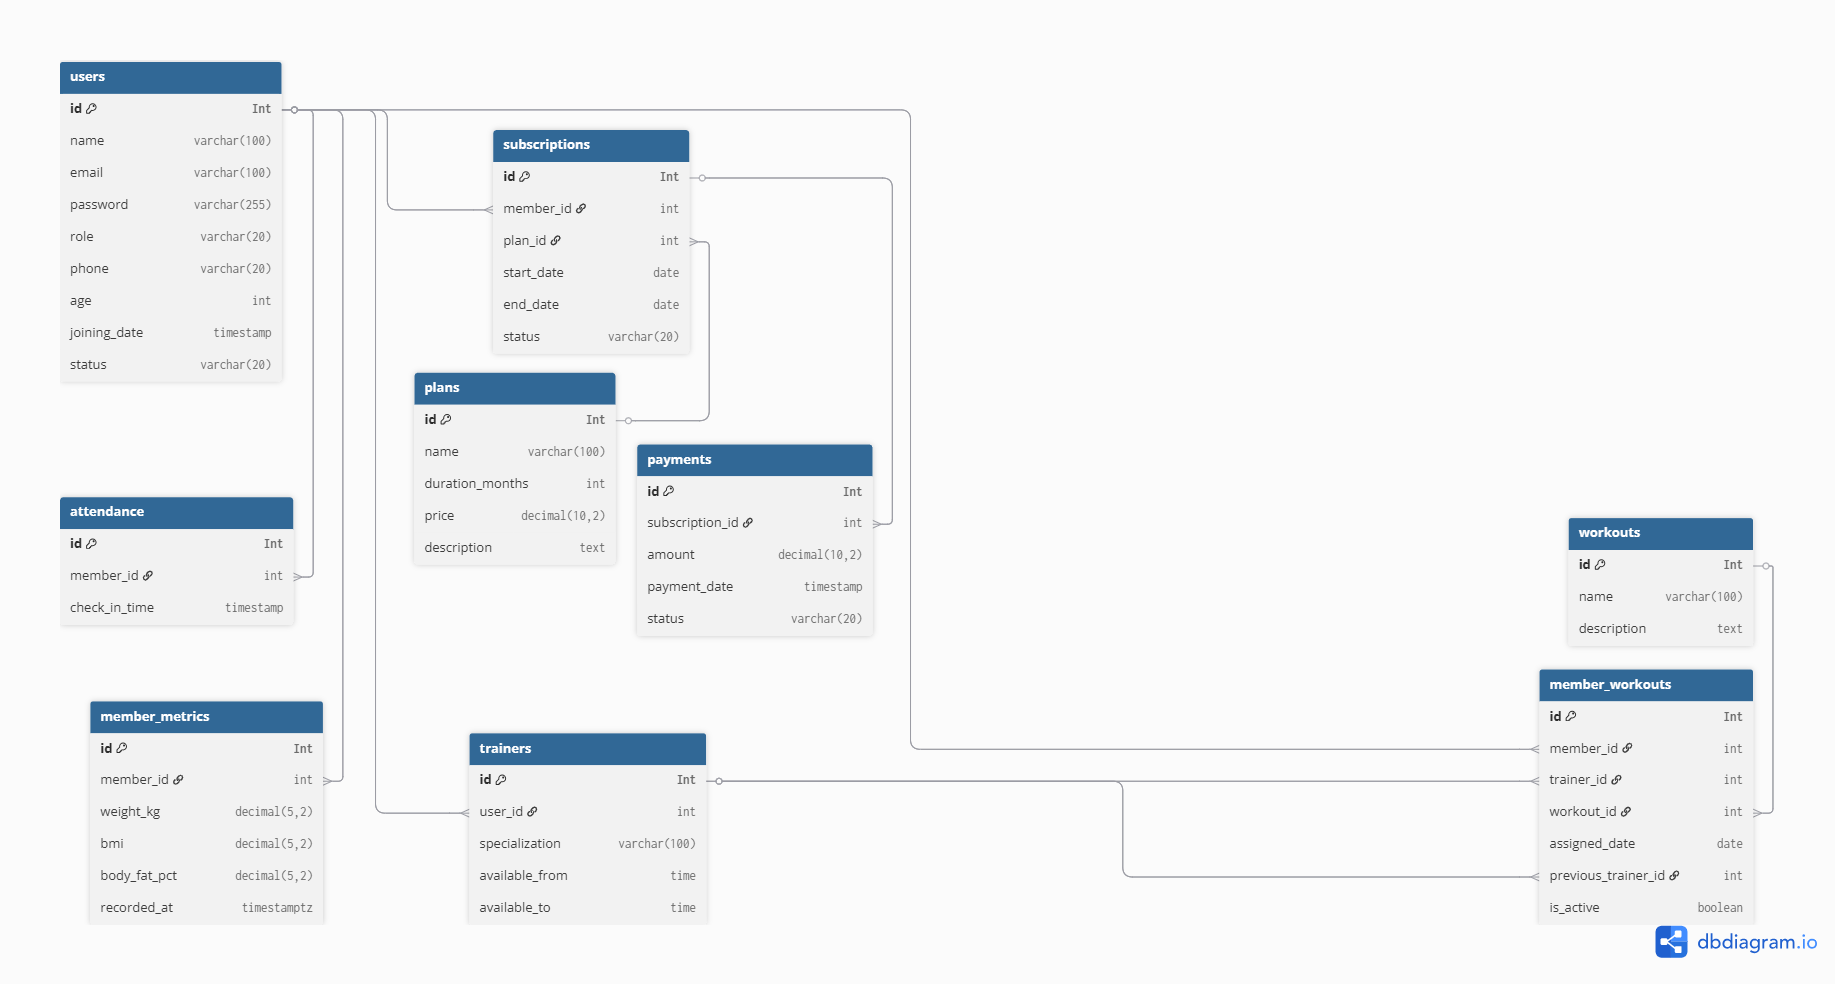
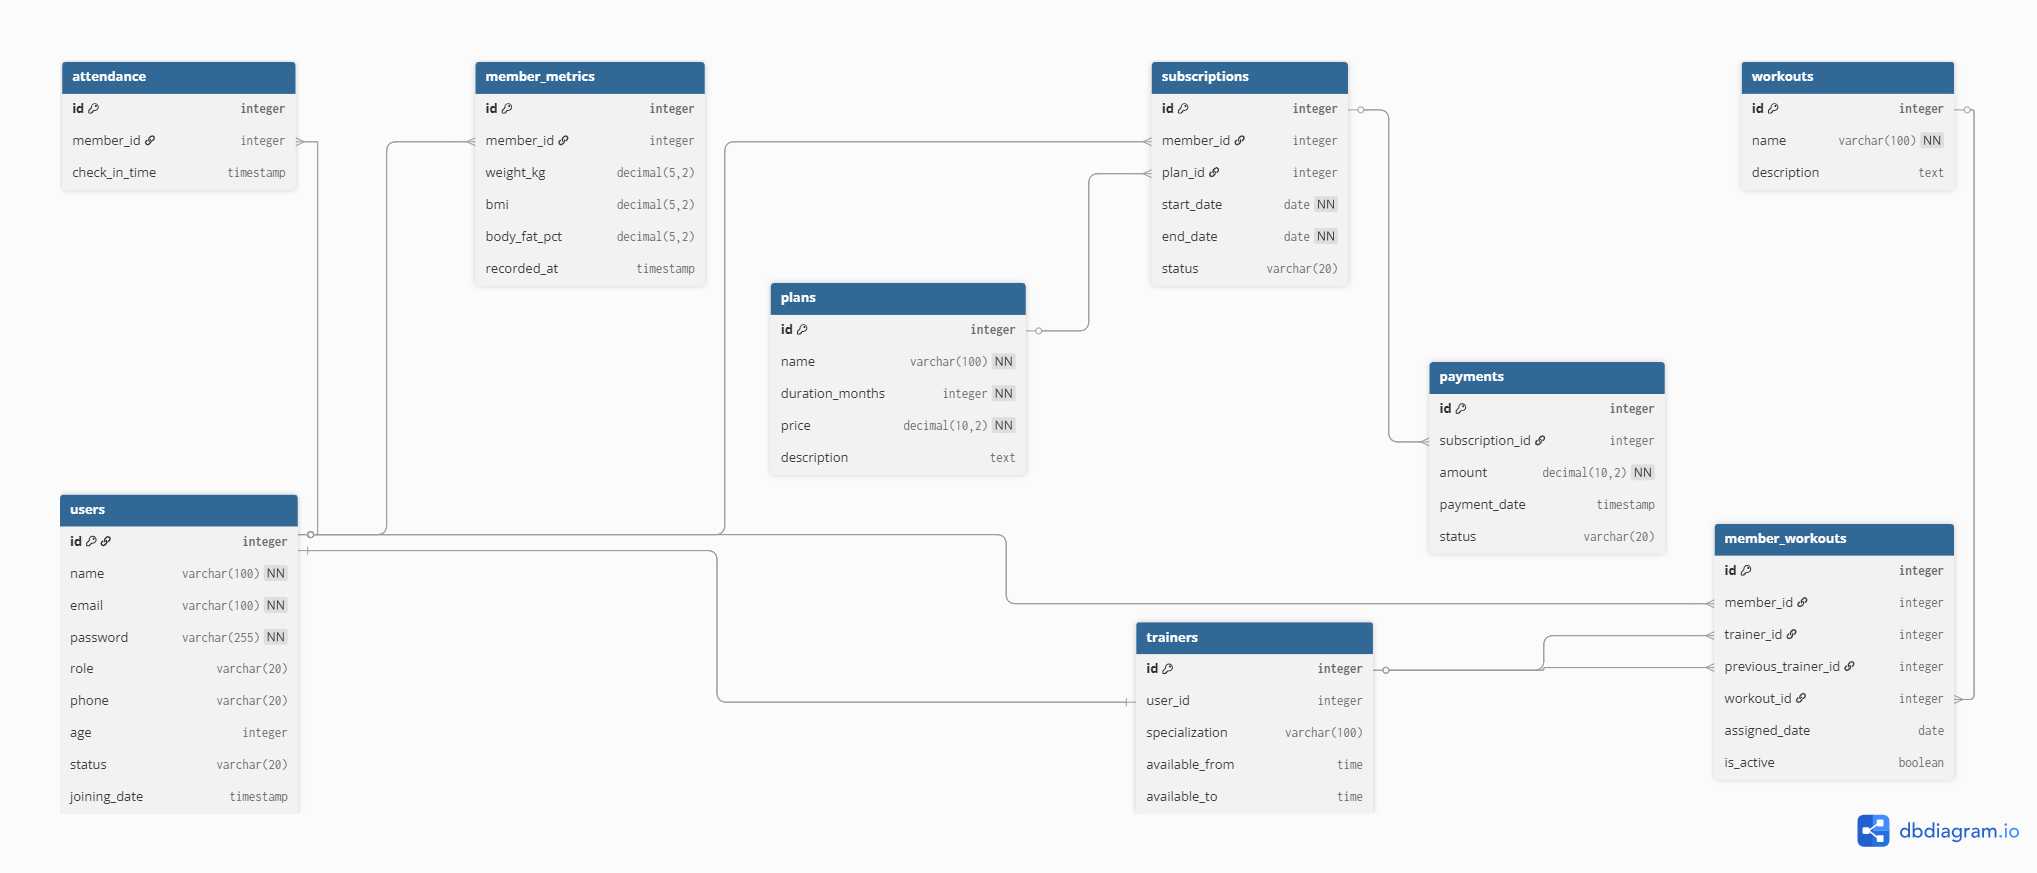
Database patches

diff --git a/services/adminService.js b/services/adminService.js
@@ -126,12 +126,6 @@ const assignMember = async (data) => {
 
     const t_id = trainer_id === '' ? null : trainer_id;
 
-    // 1. Ensure the user is marked as 'active' (in case they were 'removed')
-    await db.query(
-        "UPDATE users SET status = 'active' WHERE id = $1",
-        [member_id]
-    );
-
     const exists = await db.query(
         "SELECT id FROM member_workouts WHERE member_id = $1",
         [member_id]